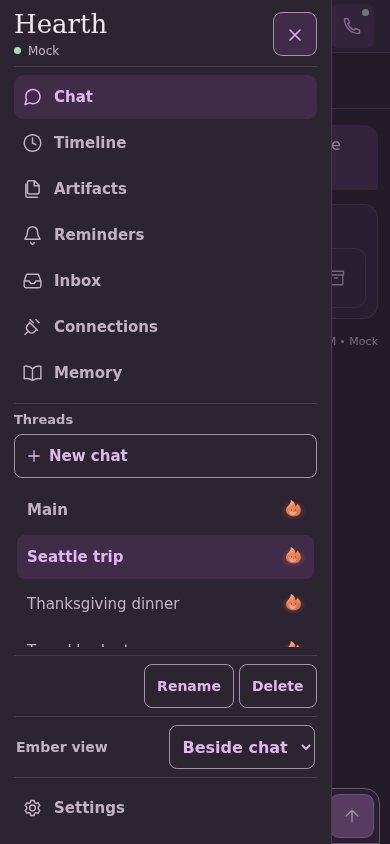
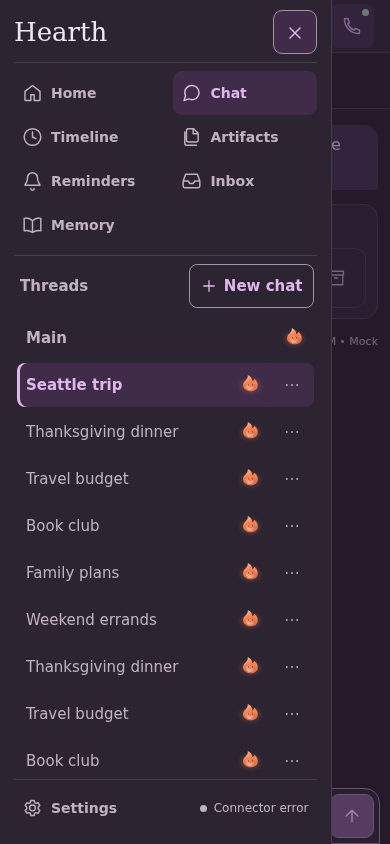
Document Settings navigation and refresh screenshots

diff --git a/README.md b/README.md
@@ -9,10 +9,16 @@ Hearth is a personal agent that lives on a Fly.io Sprite. Ask Ember to plan dinn
 | Home | Chat approval | Artifacts and Pages |
 | --- | --- | --- |
 | [![Live Home showing a demo For you card, current weather, and healthy Pinecone and Browserbase connections](docs/screenshots/home.png)](docs/screenshots/home.png) | [![Ember beside an email approval card](docs/screenshots/chat-approval.png)](docs/screenshots/chat-approval.png) | [![HTML pages in the Artifacts library](docs/screenshots/artifacts-pages.png)](docs/screenshots/artifacts-pages.png) |
-| **Recurring tasks** | **Connections** | |
-| [![Recurring task with schedule and run history](docs/screenshots/recurring-tasks.png)](docs/screenshots/recurring-tasks.png) | [![Connections catalog and Browserbase setup](docs/screenshots/connections.png)](docs/screenshots/connections.png) | |
+| **Recurring tasks** | **Settings → Connections** | **Settings → Skills** |
+| [![Recurring task with schedule and run history](docs/screenshots/recurring-tasks.png)](docs/screenshots/recurring-tasks.png) | [![Connector catalog in Settings](docs/screenshots/connections.png)](docs/screenshots/connections.png) | [![Built-in playbooks in Settings](docs/screenshots/skills.png)](docs/screenshots/skills.png) |
 
-[<img src="docs/screenshots/mobile-dark-drawer.png" alt="Hearth's navigation drawer in dark mode on mobile" width="195">](docs/screenshots/mobile-dark-drawer.png)
+[<img src="docs/screenshots/mobile-dark-drawer.png" alt="Hearth’s dark mobile drawer with Settings pinned below the workspace links and chats" width="195">](docs/screenshots/mobile-dark-drawer.png)
+
+The Settings and mobile drawer screenshots use local demo data. Home, Chat approval, Artifacts and Pages, and Recurring tasks were captured before the navigation update.
+
+## Navigation
+
+The desktop sidebar and mobile drawer list **Home**, **Chat**, **Timeline**, **Artifacts**, **Reminders**, **Inbox**, and **Memory** in that order, with **Settings** pinned at the bottom. Open **Settings → Connections** to manage and test connectors or **Settings → Skills** to browse and edit playbooks. Existing `#connections` and `#skills` bookmarks redirect to these sections.
 
 ## What you can do
 
@@ -21,7 +27,7 @@ Hearth is a personal agent that lives on a Fly.io Sprite. Ask Ember to plan dinn
 - **Get timely suggestions.** A connected brain can put offers in **Home → For you** after a memory change, new forwarded mail, or a scheduled check. Choose **Do it** to start a side chat, snooze or dismiss a card, or mute its category. [Proactivity guide](docs/proactivity.md)
 - **Stay on top of work.** Home shows reminders, Inbox, recent files, memory, activity, connector health, and Open-Meteo weather. Add panels from chat and rearrange them on Home.
 - **Make files and pages.** Create and edit DOCX, PDF, XLSX, and PPTX from chat. Preview and download artifacts, keep versions locally, and sync to Box. Build single-file HTML pages with phone and desktop previews, version history, and optional approved snapshot sharing.
-- **Reuse skills in chat.** Start with four built-in Markdown playbooks or write your own. Use **Try it** to preload a skill in a side chat, see which skill Hearth loaded, and undo edits from Timeline. [Skills guide](docs/skills.md)
+- **Reuse skills in chat.** Start with four built-in Markdown playbooks or write your own. Use **Try it** to preload a skill in a side chat, select **Using skill** to open its playbook, and undo edits from Timeline. [Skills guide](docs/skills.md)
 - **Review actions.** Approve, edit supported fields, or decline proposed actions, including email. Timeline records tool activity and approvals. Supported changes offer item-level Undo or filesystem checkpoint restore.
 - **Review what Hearth remembers.** Edit your profile and browse linked People, Places, Topics, and Daily notes. Search uses local keyword matching in English and Chinese, with optional Pinecone recall. With Auto-remember enabled, chat can save durable facts to subject notes during the turn. In chat, ask Hearth to permanently forget a specific fact. [Memory guide](docs/memory.md)
 - **Run on a schedule.** Create reminders or recurring prompts with their own run history. AgentMail can import forwarded mail as proposals and deliver configured reminder or task email.
@@ -60,7 +66,7 @@ Connectors are enabled per Sprite. A fresh clone has empty connection settings a
 | Pinecone | Semantic recall, namespace sync, and optional reranking | Supported. Set up the index before syncing. Hearth falls back to local recall when Pinecone is unavailable. |
 | Box | Artifact upload, version writes, and reading files from the workspace folder | Supported. Box version history uses local receipts until the gateway supports `GET /2.0/files/{file_id}/versions` (the `GET /versions` route). |
 | Exa | Web search and source links in chat | Supported. Choose Exa under **Settings → Search**. |
-| AgentMail | Approved chat email, reminder and task delivery, and forwarded-mail imports | Supported. Select or provision an inbox in **Connections**. |
+| AgentMail | Approved chat email, reminder and task delivery, and forwarded-mail imports | Supported. Select or provision an inbox in **Settings → Connections**. |
 | Vocal Bridge | Live calls and chat queries from the voice agent | Supported. Requires a deployed voice agent and its connector. |
 | Browserbase | Search, fetch, and approval-gated browser sessions | The demo Sprite passed the read-only connection check in Run 34. Hearth allows two live sessions at a time. |
 | Ollama Cloud | Alternative chat brain through the gateway | Optional. Select it in **Settings → Brain** after connecting. |
@@ -90,7 +96,7 @@ The [GitHub Actions workflow](.github/workflows/deploy.yml) runs the tests first
 
 ## Configuration
 
-Use **Connections** to refresh discovery and **Settings** to configure the brain, recall, search, voice, reminders, proactivity, approvals, and artifacts. Recurring tasks can delegate through the same pool. A skill can delegate by including `spawn_workers` and the worker tools it allows. [Connector defaults](config/connectors.json) ship with blank connection IDs. Local settings are saved under the workspace by default. The Sprite service saves connector settings under `~/hearth/config/`.
+Use **Settings → Connections** to refresh discovery. Other Settings sections configure the brain, recall, search, voice, reminders, proactivity, approvals, and artifacts. Recurring tasks can delegate through the same pool. A skill can delegate by including `spawn_workers` and the worker tools it allows. [Connector defaults](config/connectors.json) ship with blank connection IDs. Local settings are saved under the workspace by default. The Sprite service saves connector settings under `~/hearth/config/`.
 
 | Setting | Use |
 | --- | --- |

diff --git a/docs/connectors.md b/docs/connectors.md
@@ -2,19 +2,19 @@
 
 1. In the Fly.io dashboard, select your organization and open **Sprites → Connectors → Add connector**.
 2. Complete the provider's authorization or enter its credential in Fly. In access settings, turn off **Allow all sprites** and set **Name Prefix** to `hearth` for the standard deployment. When you also deploy a Pages publisher, require a label assigned only to the private workspace Sprite. Fly requires both matches when a policy uses a prefix and a label.
-3. In Hearth, open **Connections** and select **Refresh**. Check the **Configured** tab and use **Test** where available. Apply any feature settings below.
+3. In Hearth, open **Settings → Connections** and select **Refresh**. Check the **Configured** tab and use **Test** where available. Apply any feature settings below.
 
 Fly attaches provider credentials when it forwards requests. Hearth stores connector selections and feature settings. A successful check confirms the probe or gateway authorization for that entry. Feature endpoints may require additional permissions or gateway support. [Fly dashboard](https://fly.io/dashboard), [Fly connector setup](https://fly.io/sprites/ecosystem/)
 
 | Connector | In the Fly dashboard | In Hearth |
 | --- | --- | --- |
 | Hugging Face | Add a fine-grained user token with **Make calls to Inference Providers** permission. | Choose a chat model under **Settings → Brain**. Whisper and dense memory embeddings use the same connection. The attachment path uses its configured vision models. |
-| Pinecone | Add a project key that can describe the target index, query it, and write or delete vectors. | Set the index name in **Connections** if you changed it from `hearth-memory`. Select **Sync memories to Pinecone** under **Settings → Memory**. [Index setup](memory.md#pinecone-index-setup) |
+| Pinecone | Add a project key that can describe the target index, query it, and write or delete vectors. | Set the index name in **Settings → Connections** if you changed it from `hearth-memory`. Select **Sync memories to Pinecone** under **Settings → Memory**. [Index setup](memory.md#pinecone) |
 | Box | Choose **Continue with Box** and authorize file access. | Under **Settings → Artifacts**, choose the Box folder name and decide whether to auto-save. Retry failed syncs from the artifact. Hearth keeps local copies when upload fails. |
 | Exa | Add an Exa API key. | Choose **Exa** or **Auto** under **Settings → Search**, then use **Test search**. |
-| AgentMail | Add an AgentMail API key with inbox and mail access. | Save an existing inbox ID in **Connections** or use **Create inbox** from the Email Hearth panel when offered. Set a recipient in **Settings → Reminders** to enable reminder or task email. |
-| Vocal Bridge | Add a deployed voice agent's agent-scoped API key. | Refresh **Connections** and check access. Open **Call** in Chat to start a real session. [Voice agent configuration](voice.md#live-calls-with-vocal-bridge) |
-| Browserbase | Optionally add a project API key and grant the Sprite access. | Refresh **Connections**, then enable browsing under **Settings → Search**. Search and fetch read public pages. Live sessions and interactive steps go through approval policy. The demo deployment has Browserbase connected. |
+| AgentMail | Add an AgentMail API key with inbox and mail access. | Save an existing inbox ID in **Settings → Connections** or use **Create inbox** from the Email Hearth panel when offered. Set a recipient in **Settings → Reminders** to enable reminder or task email. |
+| Vocal Bridge | Add a deployed voice agent's agent-scoped API key. | Refresh **Settings → Connections** and check access. Open **Call** in Chat to start a real session. [Voice agent configuration](voice.md#live-calls-with-vocal-bridge) |
+| Browserbase | Optionally add a project API key and grant the Sprite access. | Refresh **Settings → Connections**, then enable browsing under **Settings → Search**. Search and fetch read public pages. Live sessions and interactive steps go through approval policy. The demo deployment has Browserbase connected. |
 | Ollama Cloud | Optionally add an Ollama Cloud API key. | Select **Ollama Cloud** and a model under **Settings → Brain**, or add a model to the Smart routing pool. |
 
 [Connector and access-policy reference](https://fly.io/sprites/ecosystem/), [Ollama Cloud setup](https://docs.ollama.com/cloud)

diff --git a/docs/skills.md b/docs/skills.md
@@ -1,6 +1,6 @@
 # Skills
 
-Skills are reusable playbooks for Hearth. Open **Skills** after **Memory** in the sidebar or mobile drawer. The library shows which playbooks are built in, when Hearth last loaded each one, and its use count.
+Skills are reusable playbooks for Hearth. Open **Settings → Skills** from the desktop sidebar or mobile drawer. The library shows which playbooks are built in, when Hearth last loaded each one, and its use count. Bookmarks to `#skills` still open the library.
 
 - **Plan a dinner party** checks memory for guest allergies and dietary needs, proposes a menu, and creates an Excel shopping list.
 - **Weekly family brief** reads reminders, recurring tasks, and memory to summarize the coming week.
@@ -9,7 +9,7 @@ Skills are reusable playbooks for Hearth. Open **Skills** after **Memory** in th
 
 ## Use a playbook
 
-Ask in chat naturally or name the skill. Hearth supplies the brain with skill names and descriptions so it can load a matching playbook before using its tools. The chat displays **Using skill** when Hearth loads the playbook. **Try it** opens a new side chat pinned to the selected skill. Enter a request in that chat to run the skill. Usage is counted when a turn loads the playbook, including turns that later fail.
+Ask in chat naturally or name the skill. Hearth supplies the brain with skill names and descriptions so it can load a matching playbook before using its tools. Select the **Using skill** chip in chat to open that playbook in Settings. **Try it** opens a new side chat pinned to the selected skill. Enter a request in that chat to run the skill. Usage is counted when a turn loads the playbook, including turns that later fail.
 
 Use a connected brain for model-based matching and to follow custom playbooks. Mock can demonstrate built-in dinner planning and the family brief with local data.
 

diff --git a/docs/memory.md b/docs/memory.md
@@ -28,6 +28,8 @@ On first startup with legacy memory, Hearth adds front matter, preserves the old
 
 ## Pinecone
 
+Set up or test Pinecone in **Settings → Connections**. The Pinecone index card under **Settings → Memory** links to Connections when the provider is disconnected or reports an error.
+
 Under **Settings → Memory**, choose **Auto**, **Pinecone**, **Local**, **Hugging Face embeddings**, or **Keyword**. Set the result limit, similarity threshold, and library scope. Auto uses Pinecone when connected. Pinecone matches are supplemented by keyword hits, which can surface recent edits while sync is pending. If Pinecone is unavailable or exceeds the chat time budget, Hearth uses local keyword matching. Local and Keyword can find Chinese phrases inside longer saved sentences as well as English words. The Hugging Face backend keeps a local vector cache. Text artifacts can appear in search. Chat and voice transcript recall is opt-in.
 
 The demo Sprite uses a dedicated namespace and a **384-dimension cosine** index with Hugging Face’s `intfloat/multilingual-e5-small` embeddings. Fresh installations default to the `hearth` namespace. For installations that share an index, configure a distinct namespace in each workspace’s private connector settings. [Connector setup](connectors.md), [Pinecone adapter](../hearth/pinecone.py)

diff --git a/QA-REPORT.md b/QA-REPORT.md
@@ -42,7 +42,7 @@ Use a test workspace with a connected brain and Exa. Stage a For you offer, Engl
 | --- | --- |
 | 0–12 s | Open **Home → For you**. Read the reason for one offer, then choose **Do it** and show the side chat. |
 | 12–28 s | Open **Memory → Topics**. Search for the Chinese phrase in the staged note, open its source, then point out the English note beside it. |
-| 28–43 s | Open **Skills** and point out **Try it** on **Weekly family brief**. Switch to the staged chat to show **Using skill**, then open the pending skill approval and unfold the proposed Markdown. |
+| 28–43 s | Open **Settings → Skills** and point out **Try it** on **Weekly family brief**. Switch to the staged chat to show **Using skill**, then open the pending skill approval and unfold the proposed Markdown. |
 | 43–62 s | Open the worker comparison. Expand a worker’s Exa step, point out the separate worker timings, and show the combined answer and its sources. |
 | 62–78 s | Open **Artifacts**, preview the workbook, then open the private Page and switch from **Phone** to **Desktop**. |
 | 78–90 s | Open **Reminders → Recurring tasks → Morning brief** and show its run history. Finish on **Timeline** with the worker and approval activity. |

diff --git a/docs/voice.md b/docs/voice.md
@@ -10,7 +10,7 @@ Use the mic in Chat to record. Click again to finish, or hold **Space** in an em
 
 1. Create and deploy a Vocal Bridge voice agent. Set **AI Agent Integration** to the **client data channel**.
 2. Add the agent-scoped key to the Vocal Bridge connector in Fly and grant the Hearth Sprite access.
-3. Refresh **Connections** in Hearth. In a chat, select **Call**. The call sheet shows elapsed time, captions as they arrive, mute, minimize, and hang-up controls.
+3. Refresh **Settings → Connections** in Hearth. In a chat, select **Call**. The call sheet shows elapsed time, captions as they arrive, mute, minimize, and hang-up controls.
 
 [Vocal Bridge developer guide](https://vocalbridgeai.com/docs/overview), [Fly setup](connectors.md)
 

diff --git a/docs/development.md b/docs/development.md
@@ -34,7 +34,7 @@ for run in 25 30 31 32 33; do
 done
 ```
 
-The fixtures exercise Home, attachments, Pages, Skills, parallel workers, structured Memory, and For you. [Live Sprite results](../QA-REPORT.md)
+The fixtures exercise Home, attachments, Pages, Settings → Connections and Skills, parallel workers, structured Memory, and For you. The navigation, Connections, and Skills checks include 375, 390, and 1440 px in light and dark themes. [Live Sprite results](../QA-REPORT.md)
 
 The contrast sweep uses Node Playwright. The following commands install it in a temporary directory and start an isolated fixture server.
 
